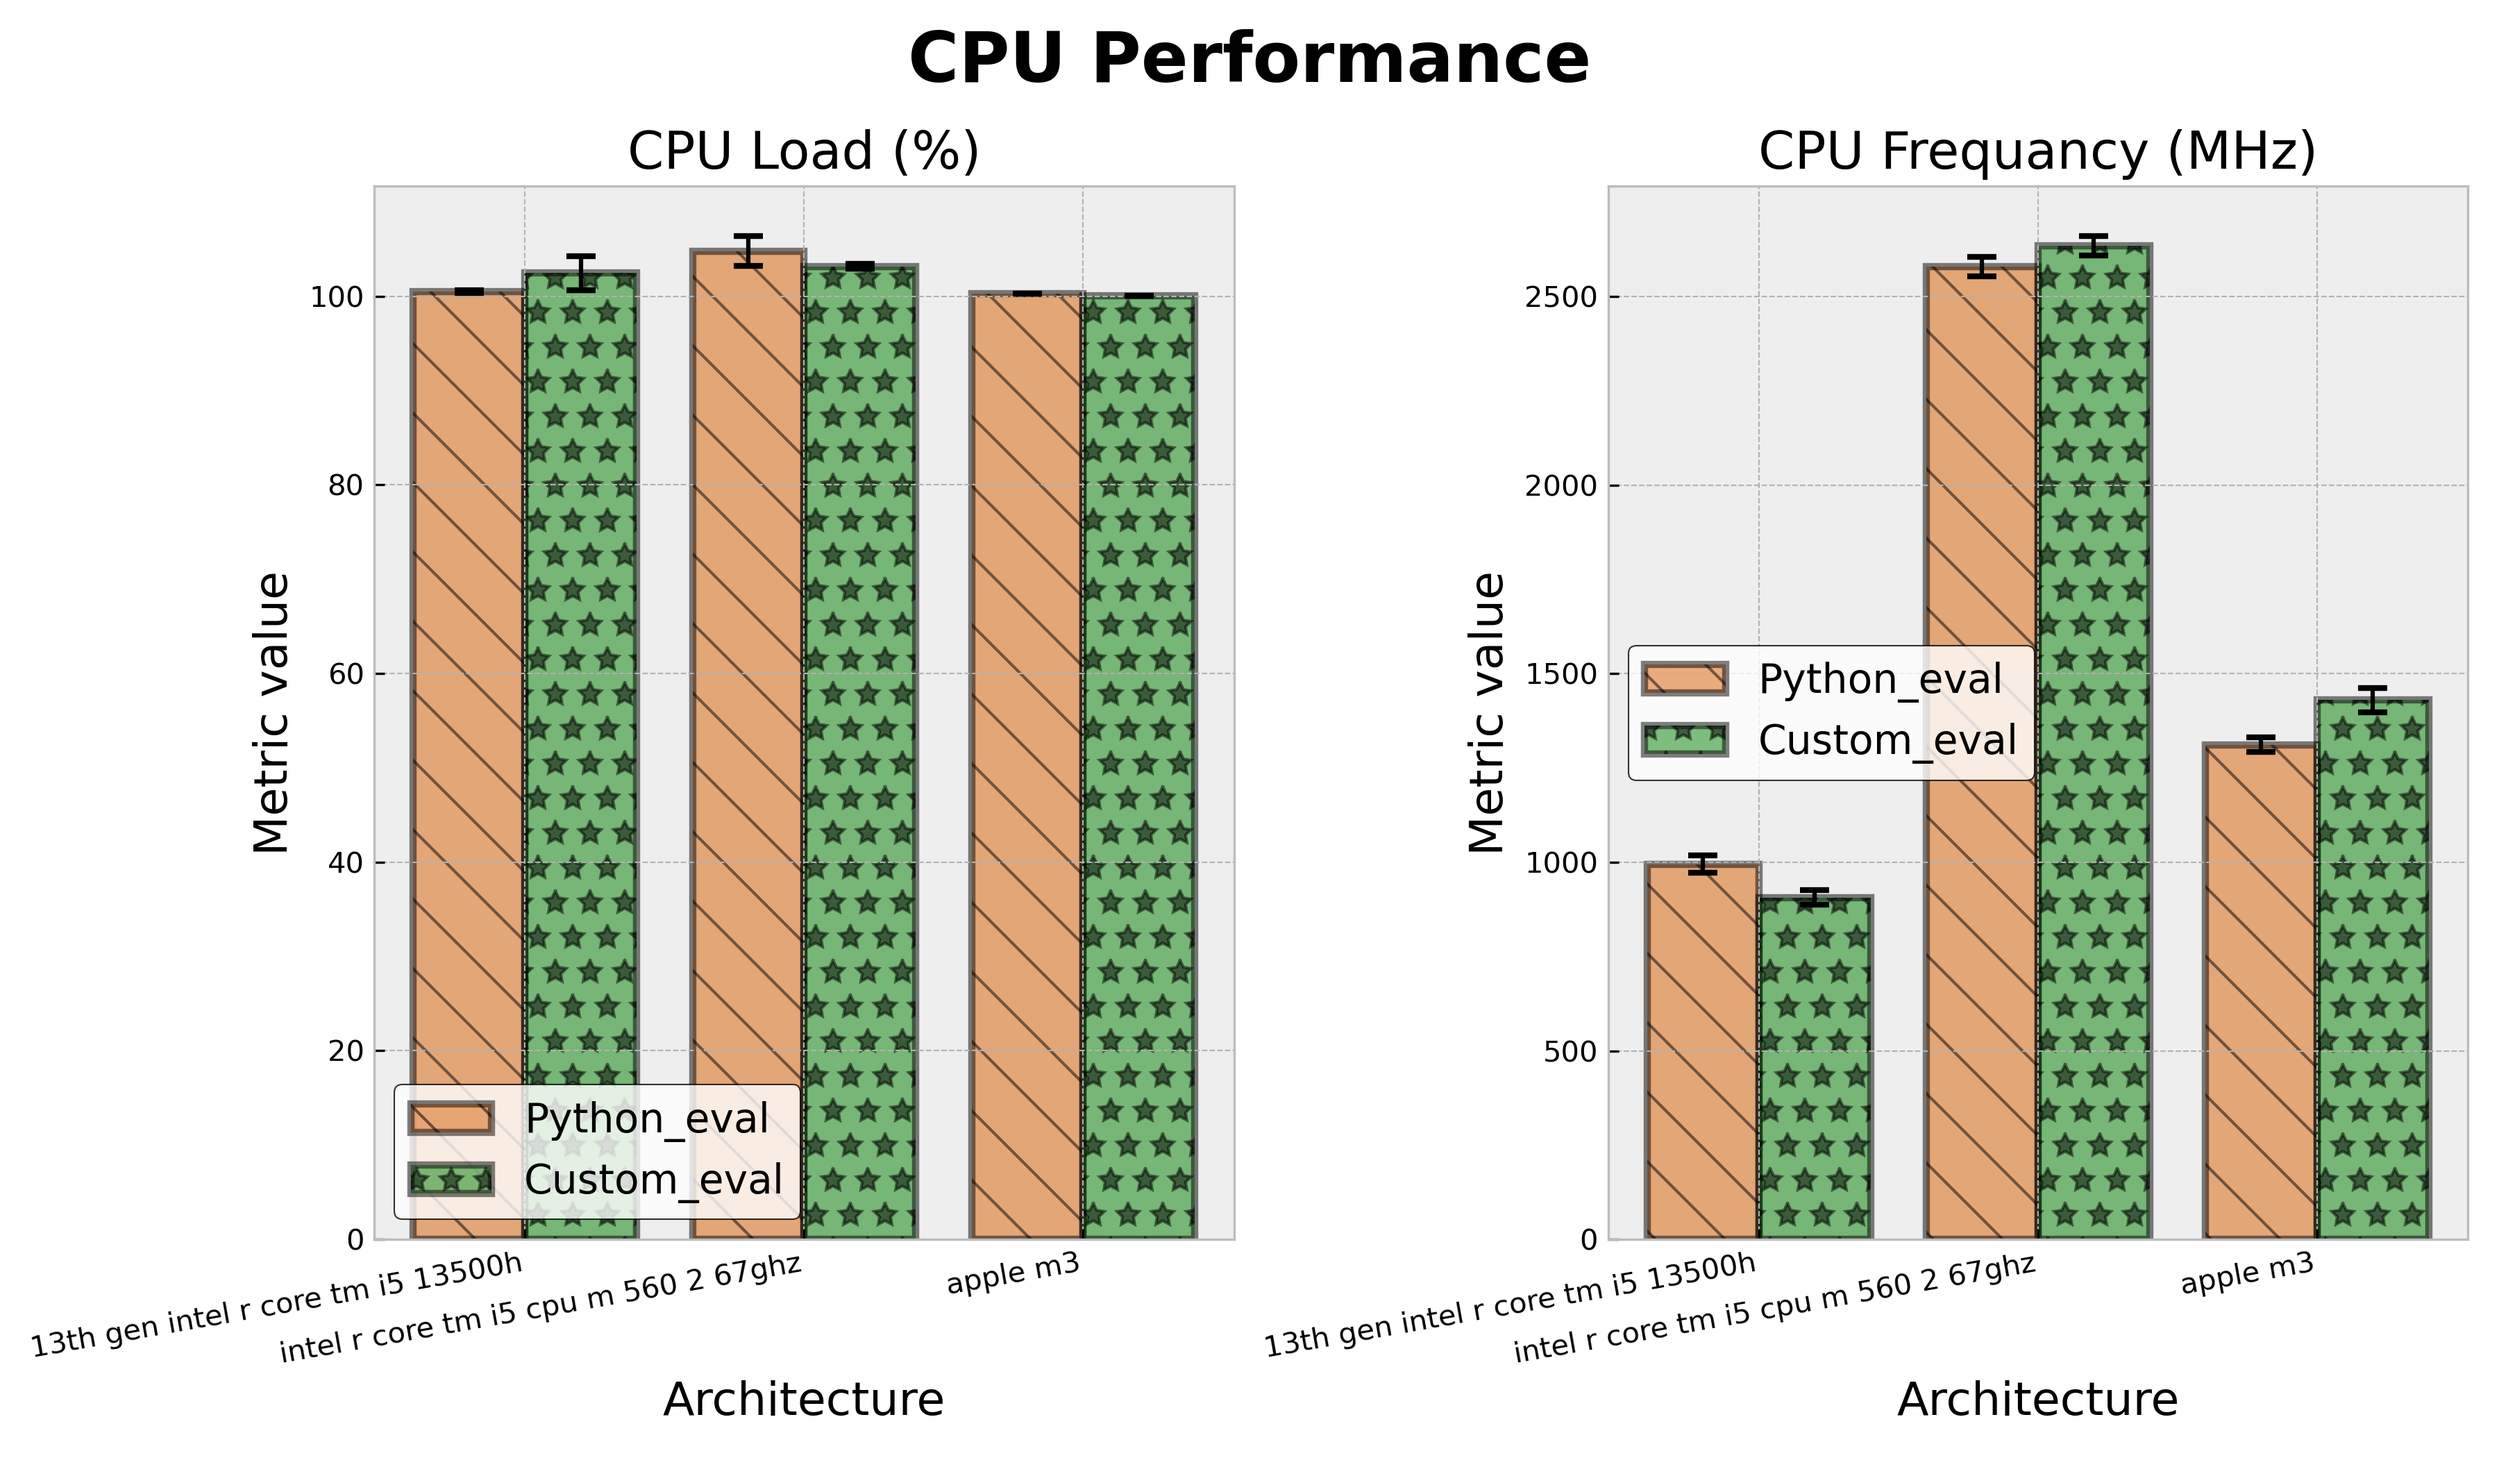
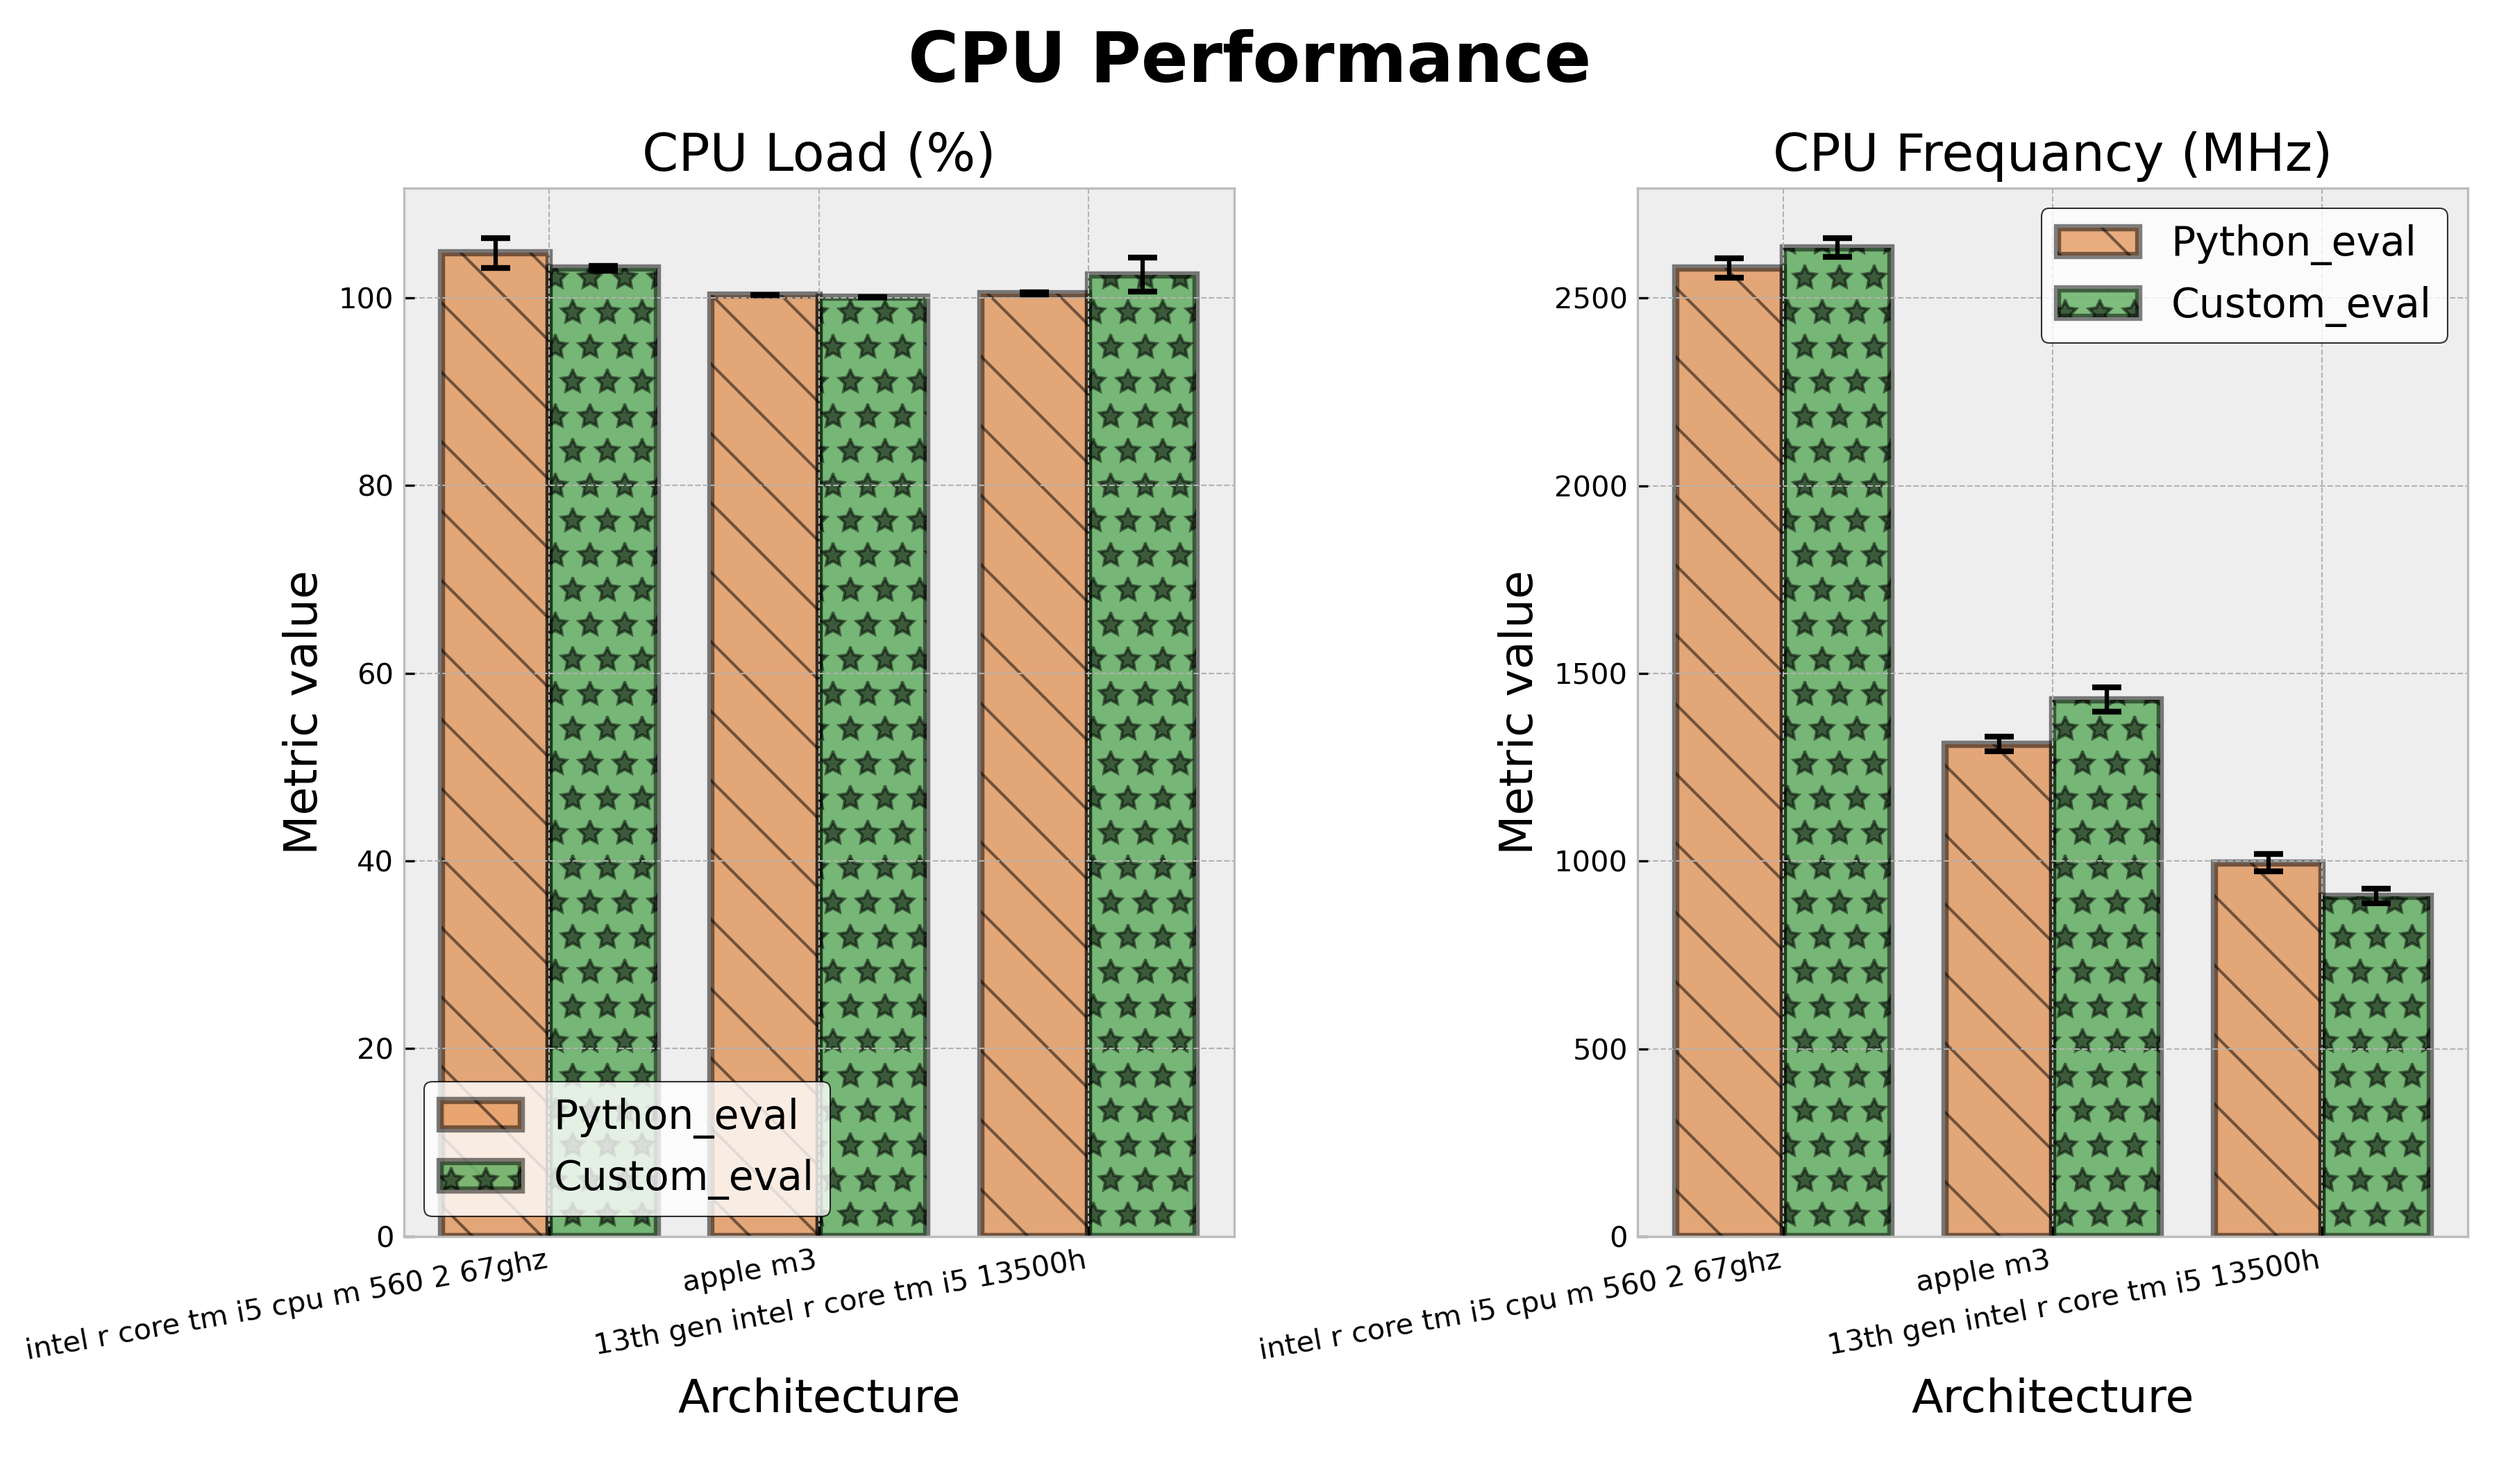
Add change path general_results

Changed region(s): [[0.0, 0.0929, 0.4978, 0.9905], [0.4978, 0.0929, 0.9956, 0.9905], [0.4044, 0.1238, 0.4356, 0.1548]]

diff --git a/modeling/config.py b/modeling/config.py
@@ -163,13 +163,13 @@ class ConfigGeneralAnalysis:
         )
 
 
-    @staticmethod
-    def _full_name_file_dir(dir_name: Path,
+    def _full_name_file_dir(self,
+                            dir_name: Path,
                             dir_csv: str,
                             file_name: tuple[str, ...]
                             ) -> tuple[Path, ...]:
         return tuple(
-            'data' / dir_name / dir_csv / file_name_i
+            self.base_dir_data / dir_name / dir_csv / file_name_i
             for file_name_i in file_name
         )
 

diff --git a/modeling/model.py b/modeling/model.py
@@ -758,8 +758,3 @@ class ModelTelemetry:
     def run_model(self) -> None:
         self._forward_telemetry()
         self._export_data()
-
-
-if __name__ == "__main__":
-    telemetry = ModelTelemetry()
-    telemetry.run_model()
